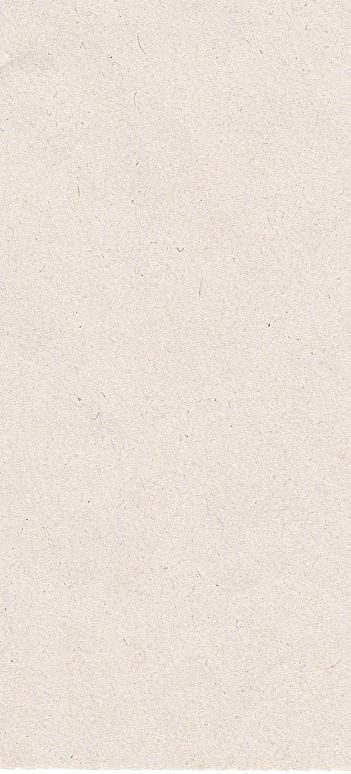
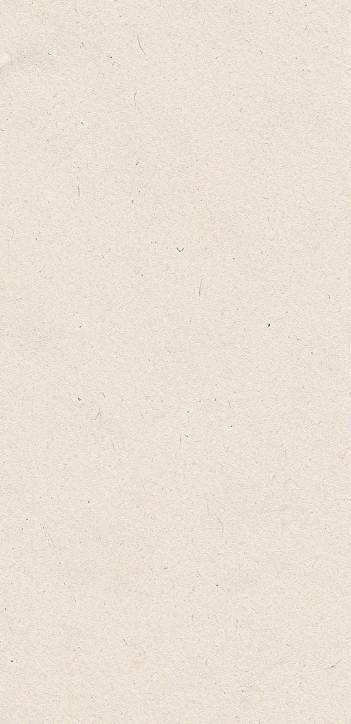
feedbavcks

diff --git a/src/sections/DressCode.jsx b/src/sections/DressCode.jsx
@@ -1,8 +1,8 @@
 import dressCode from '../assets/images/random/Principal-sponsor.png';
-import champagneGold from '../assets/images/random/Champagne-Gold.jpeg';
-import frenchBlue from '../assets/images/random/French-blue.jpeg';
-import navyBlue from '../assets/images/random/Navy-blue.jpeg';
-import powderBlue from '../assets/images/random/Powder-blue.jpeg';
+import champagneGold from '../assets/images/random/Champagne-Gold.png';
+import frenchBlue from '../assets/images/random/French-blue.png';
+import navyBlue from '../assets/images/random/Navy-blue.png';
+import powderBlue from '../assets/images/random/Powder-blue.png';
 
 const DressCode = () => {
     const GuestColorAttire = [

diff --git a/src/assets/css/overides.css b/src/assets/css/overides.css
@@ -5,7 +5,9 @@ body{
 section{
   padding-top: 2rem;
   padding-bottom: 2rem;
-  /* background: ; */
+  background-image: url(../images/background/section-bg.png);
+  background-repeat: no-repeat;
+  background-size: cover;
 }
 
 p, a {
